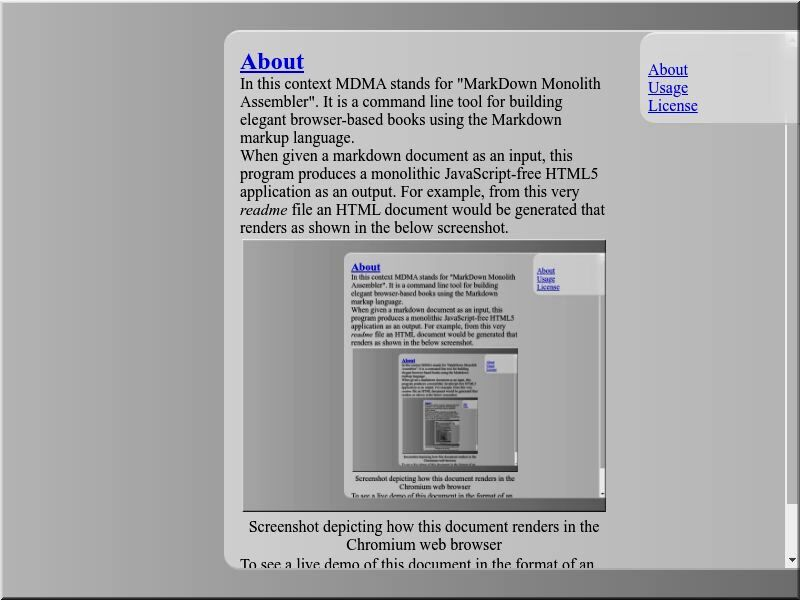
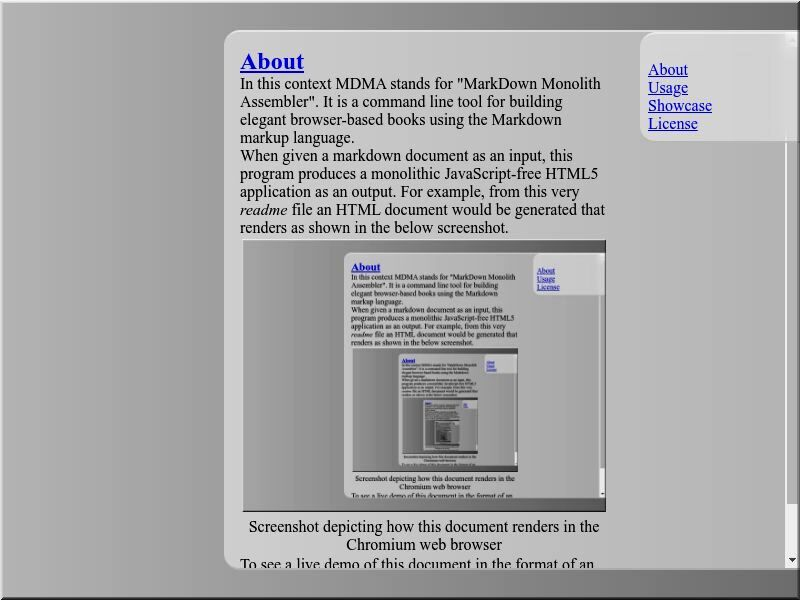
Added the showcase section.

Changed region(s): [[0.7812, 0.15, 1.0, 0.24]]

diff --git a/framework.html b/framework.html
@@ -221,6 +221,7 @@
     body:has(#Synopsis:target) #MDMA-AGENDA a[href="#Synopsis"],
     body:has(#Build-Instructions:target) #MDMA-AGENDA a[href="#Build-Instructions"],
     body:has(#Dependencies:target) #MDMA-AGENDA a[href="#Dependencies"],
+    body:has(#Showcase:target) #MDMA-AGENDA a[href="#Showcase"],
     body:has(#License:target) #MDMA-AGENDA a[href="#License"] {
     color: var(--MDMA-AGENDA-TARGET-COLOR);
     }
@@ -401,6 +402,38 @@ Markdown dialect options:
 
               <article class="tab">
                 <h1>
+                  <a id="Showcase" href="#Showcase" target=
+                  "_self">Showcase</a>
+                </h1>
+
+                <p>
+                  Next, some of the projects that have put MarkDown
+                  Monolith Assembler into a good use are listed.
+                </p>
+
+                <table>
+                  <thead>
+                    <tr>
+                      <th style="text-align: center;">
+                        <img src="showcase/ericherstu.net.jpg" alt=
+                        "Screenshot">
+                      </th>
+                    </tr>
+                  </thead>
+
+                  <tbody>
+                    <tr>
+                      <td style="text-align: center;">
+                        <a href="https://ErichErstu.net/" target=
+                        "_blank">ErichErstu.net</a>
+                      </td>
+                    </tr>
+                  </tbody>
+                </table>
+              </article>
+
+              <article class="tab">
+                <h1>
                   <a id="License" href="#License" target=
                   "_self">License</a>
                 </h1>
@@ -428,7 +461,9 @@ Markdown dialect options:
                     Instructions</a><a target="_self" href=
                     "#Dependencies">Dependencies</a>
                   </div>
-                  <a target="_self" href="#License">License</a>
+                  <a target="_self" href=
+                  "#Showcase">Showcase</a><a target="_self" href=
+                  "#License">License</a>
                 </div>
               </div>
             </div>

diff --git a/README.md b/README.md
@@ -80,6 +80,16 @@ and their respective header files must be present in the system.
   A tool to tidy down HTML code to a clean style
 
 
+# Showcase #####################################################################
+
+Next, some of the projects that have put MarkDown Monolith Assembler into a good
+use are listed.
+
+|                  ![Screenshot](showcase/ericherstu.net.jpg)                  |
+| :--------------------------------------------------------------------------: |
+|                  [ErichErstu.net](https://ErichErstu.net/)                   |
+
+
 # License ######################################################################
 
 MarkDown Monolith Assembler has been authored by Erich Erstu and is released
